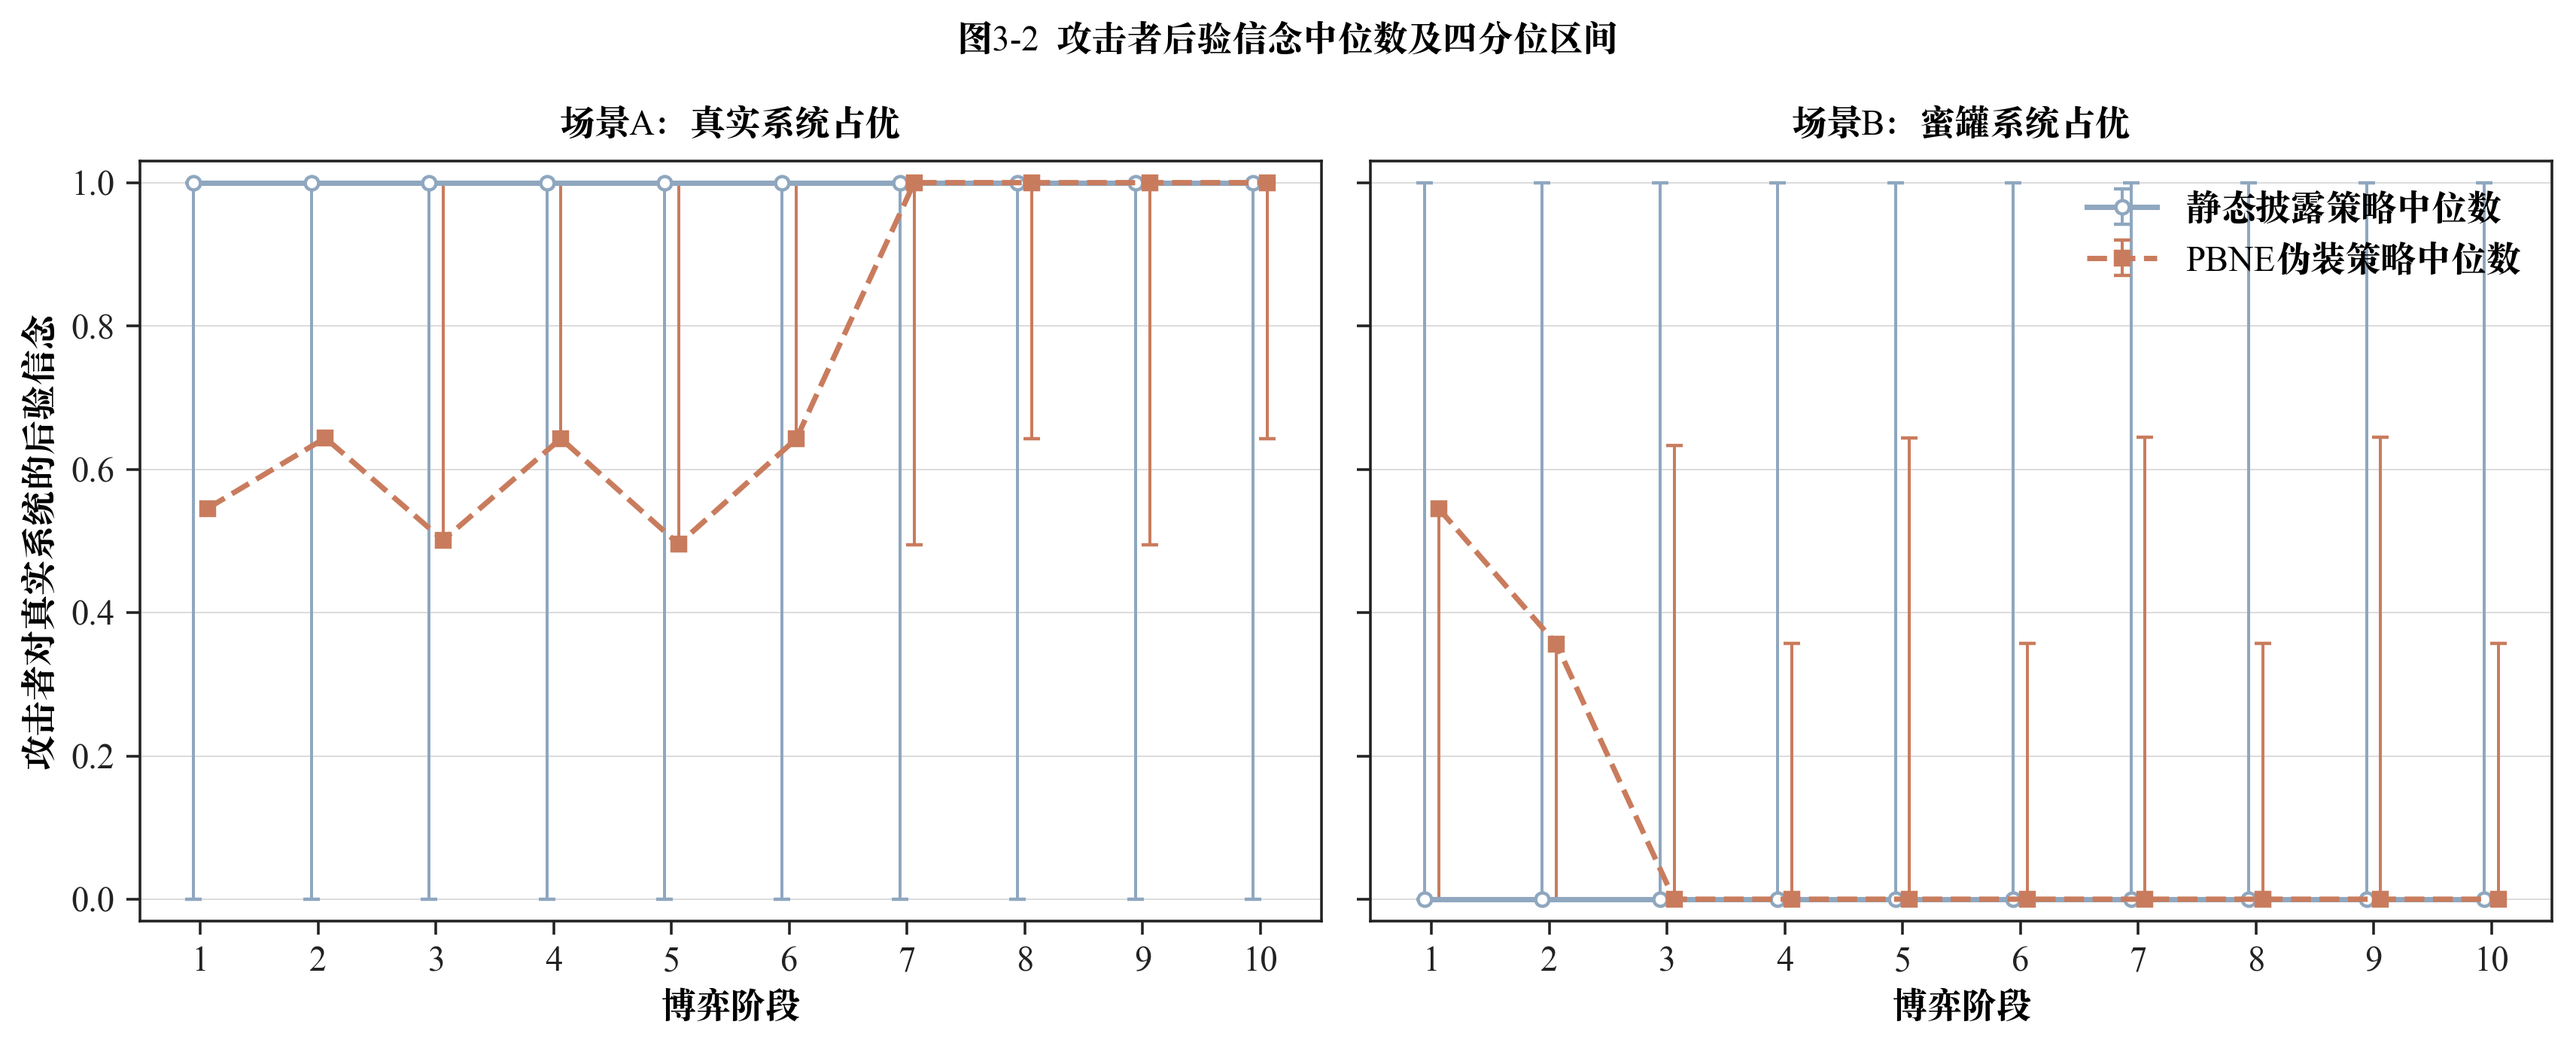
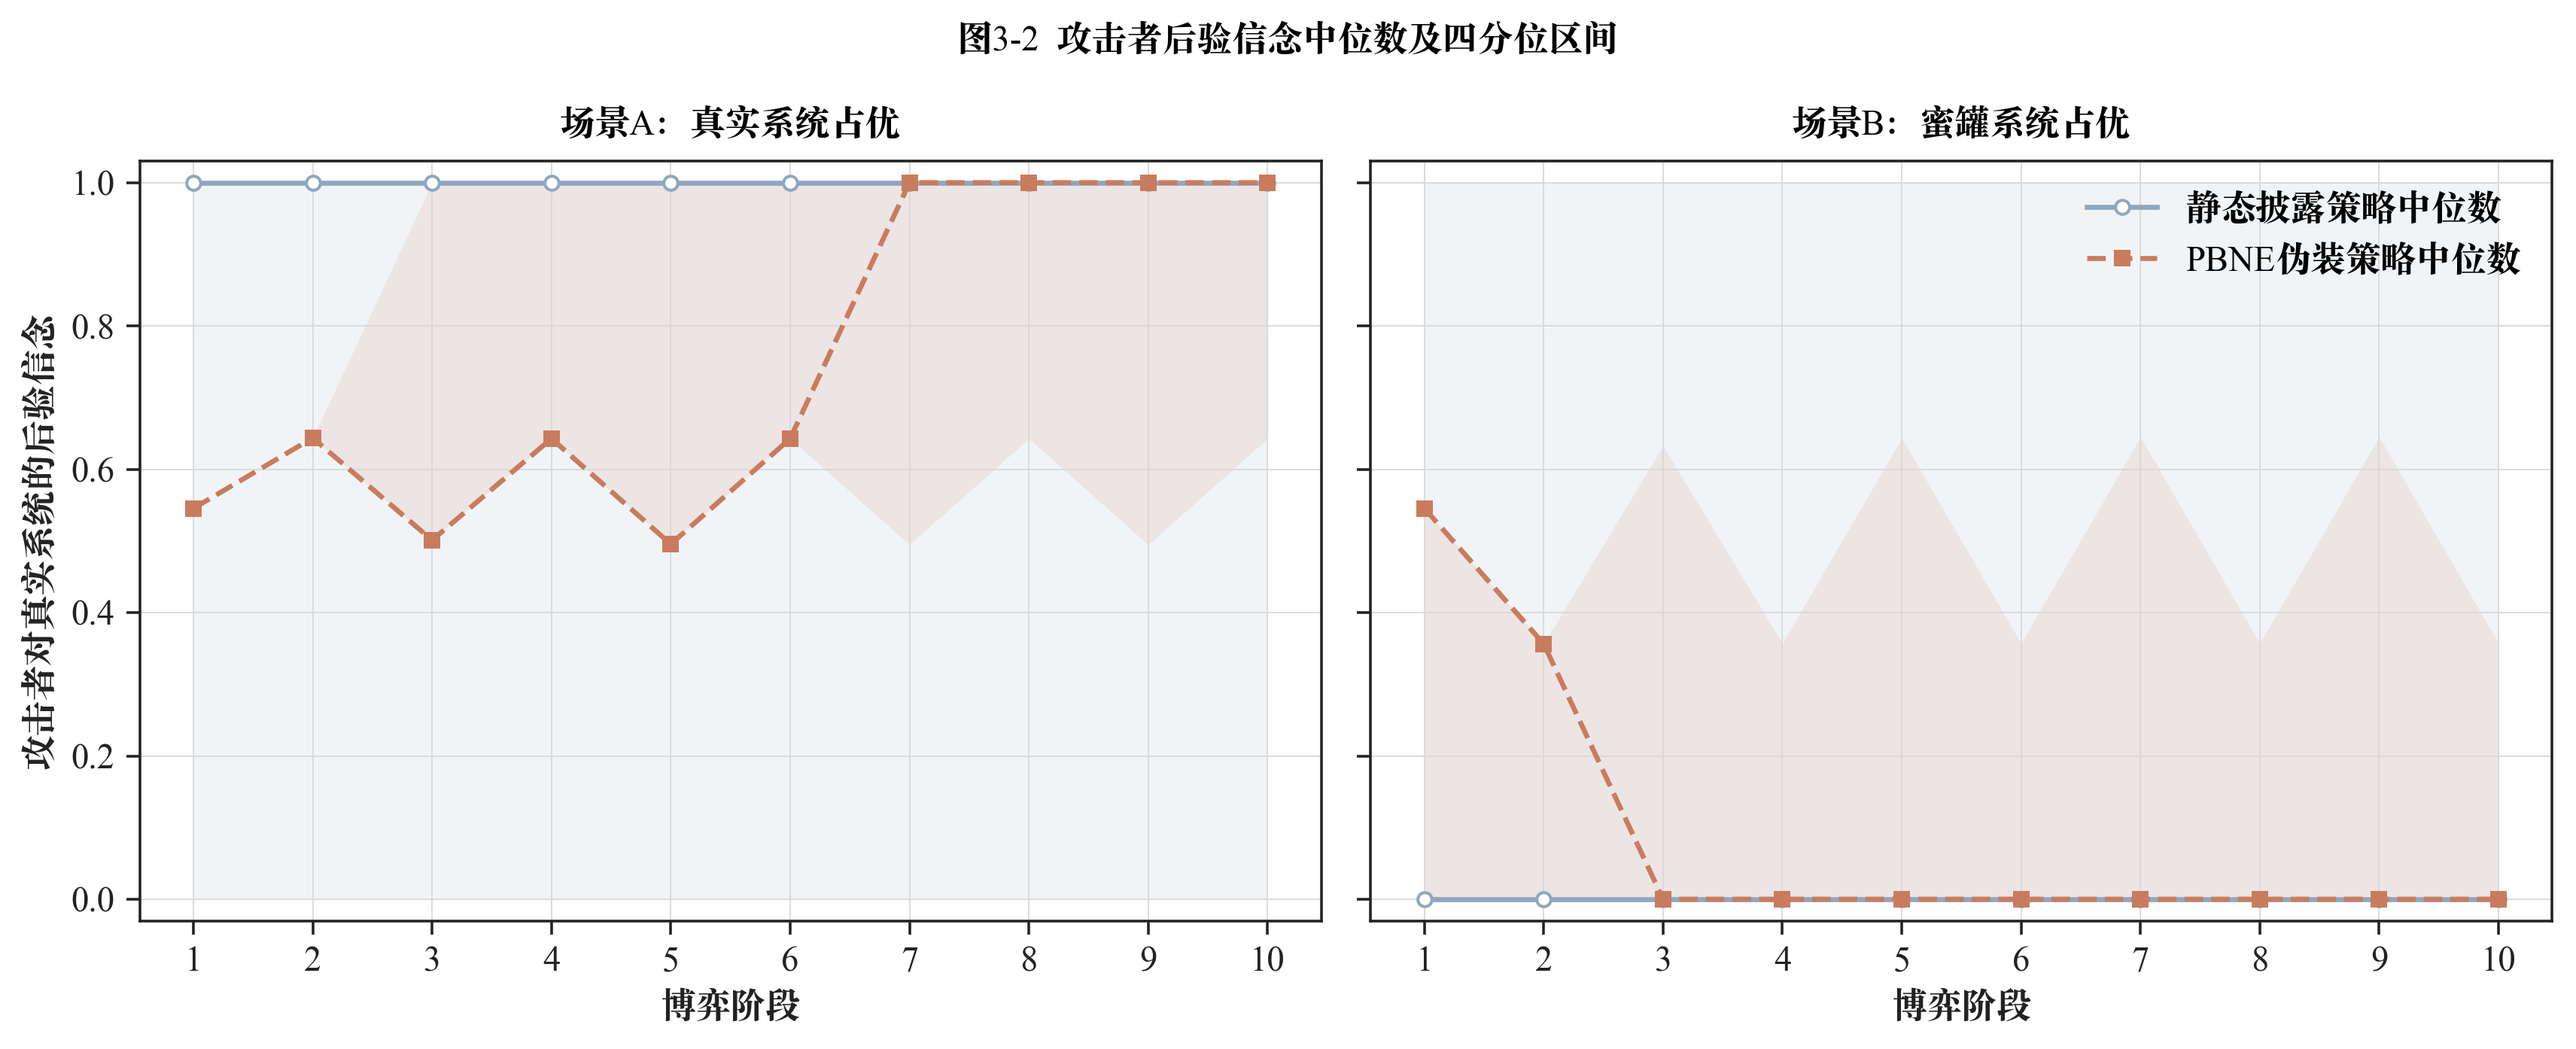
Refine theory figure style for chapter 3 experiments

diff --git a/sg_deception_simulation/plot_results.py b/sg_deception_simulation/plot_results.py
@@ -24,6 +24,8 @@ COLOR_PBNE = "#C97C5D"
 COLOR_PBNE_ALT = "#6E9F6D"
 COLOR_GRID = "#D8D8D8"
 COLOR_TEXT = "#222222"
+
+
 def configure_matplotlib() -> None:
     global FONT_CN, FONT_EN
     available = {font.name for font in font_manager.fontManager.ttflist}
@@ -46,6 +48,12 @@ def configure_matplotlib() -> None:
     matplotlib.rcParams["axes.facecolor"] = "white"
     matplotlib.rcParams["figure.facecolor"] = "white"
     matplotlib.rcParams["savefig.facecolor"] = "white"
+    matplotlib.rcParams["axes.titleweight"] = "regular"
+    matplotlib.rcParams["axes.labelcolor"] = COLOR_TEXT
+    matplotlib.rcParams["xtick.color"] = COLOR_TEXT
+    matplotlib.rcParams["ytick.color"] = COLOR_TEXT
+    matplotlib.rcParams["lines.markersize"] = 4
+    matplotlib.rcParams["lines.linewidth"] = 1.4
 
 
 def apply_academic_axes_style(ax, x_font=None, y_font=None) -> None:
@@ -73,6 +81,38 @@ def save_figure(filename: str) -> None:
     plt.close()
 
 
+def plot_academic_line(
+    ax,
+    x,
+    y,
+    *,
+    color: str,
+    label: str,
+    marker: str,
+    linestyle: str = "-",
+    hollow: bool = False,
+):
+    return ax.plot(
+        x,
+        y,
+        color=color,
+        label=label,
+        linestyle=linestyle,
+        marker=marker,
+        markersize=4.2,
+        markerfacecolor="white" if hollow else color,
+        markeredgecolor=color,
+        markeredgewidth=0.9,
+        linewidth=1.5,
+    )[0]
+
+
+def empirical_cdf(values: list[float]) -> tuple[np.ndarray, np.ndarray]:
+    sample = np.sort(np.asarray(values, dtype=float))
+    y = np.arange(1, sample.size + 1, dtype=float) / sample.size
+    return sample, y
+
+
 def plot_scenario_utility(feasible: dict) -> None:
     scenario_labels = ["场景A\n真实系统占优", "场景B\n蜜罐系统占优"]
     baseline_values = [
@@ -85,44 +125,48 @@ def plot_scenario_utility(feasible: dict) -> None:
     ]
 
     x = np.arange(len(scenario_labels))
-    width = 0.32
-
     plt.figure(figsize=(7.2, 4.6))
     ax = plt.gca()
     ax.grid(axis="y")
-    bars1 = plt.bar(
-        x - width / 2,
+    line1 = plot_academic_line(
+        ax,
+        x,
         baseline_values,
-        width=width,
-        color="white",
-        edgecolor=COLOR_BASELINE,
-        hatch="//",
-        linewidth=0.9,
+        color=COLOR_BASELINE,
         label="静态披露策略",
+        marker="o",
+        hollow=True,
     )
-    bars2 = plt.bar(
-        x + width / 2,
+    line2 = plot_academic_line(
+        ax,
+        x,
         pbne_values,
-        width=width,
-        color="#F3DDD4",
-        edgecolor=COLOR_PBNE,
-        hatch="\\\\",
-        linewidth=0.9,
+        color=COLOR_PBNE,
         label="适用PBNE伪装策略",
+        marker="s",
+        linestyle="--",
     )
 
-    for bars in (bars1, bars2):
-        for bar in bars:
-            y = bar.get_height()
-            plt.text(
-                bar.get_x() + bar.get_width() / 2,
-                y + 0.06,
-                f"{y:.2f}",
-                ha="center",
-                va="bottom",
-                fontproperties=FONT_EN,
-                fontsize=10.5,
-            )
+    for xpos, y in zip(x, baseline_values):
+        plt.text(
+            xpos,
+            y + 0.08,
+            f"{y:.2f}",
+            ha="center",
+            va="bottom",
+            fontproperties=FONT_EN,
+            fontsize=10.0,
+        )
+    for xpos, y in zip(x, pbne_values):
+        plt.text(
+            xpos,
+            y - 0.18,
+            f"{y:.2f}",
+            ha="center",
+            va="top",
+            fontproperties=FONT_EN,
+            fontsize=10.0,
+        )
 
     plt.xticks(x, scenario_labels)
     for label in ax.get_xticklabels():
@@ -131,7 +175,7 @@ def plot_scenario_utility(feasible: dict) -> None:
     plt.ylabel("防御者期望效用", fontproperties=FONT_CN, fontsize=10.5)
     plt.xlabel("实验场景", fontproperties=FONT_CN, fontsize=10.5)
     plt.title("图3-1  不同场景下防御者期望效用对比", fontproperties=FONT_CN, fontsize=10.5, pad=10)
-    plt.legend(loc="upper right", prop=FONT_CN, fontsize=10.5)
+    plt.legend(handles=[line1, line2], loc="best", prop=FONT_CN, fontsize=10.0)
     apply_academic_axes_style(ax, x_font=FONT_CN, y_font=FONT_EN)
     save_figure("fig3_1_defender_utility_comparison.png")
 
@@ -170,38 +214,30 @@ def plot_belief_trajectories(feasible: dict) -> None:
         pbne_lower = np.array(pbne_q50) - np.array(pbne_q25)
         pbne_upper = np.array(pbne_q75) - np.array(pbne_q50)
 
-        ax.errorbar(
-            stages - 0.06,
+        ax.fill_between(stages, baseline_q25, baseline_q75, color=COLOR_BASELINE, alpha=0.12, linewidth=0)
+        ax.fill_between(stages, pbne_q25, pbne_q75, color=COLOR_PBNE, alpha=0.12, linewidth=0)
+        plot_academic_line(
+            ax,
+            stages,
             baseline_q50,
-            yerr=np.vstack([baseline_lower, baseline_upper]),
-            fmt="o-",
             color=COLOR_BASELINE,
-            markerfacecolor="white",
-            markeredgecolor=COLOR_BASELINE,
-            linewidth=1.6,
-            markersize=4.0,
-            elinewidth=0.9,
-            capsize=2.5,
             label="静态披露策略中位数",
+            marker="o",
+            hollow=True,
         )
-        ax.errorbar(
-            stages + 0.06,
+        plot_academic_line(
+            ax,
+            stages,
             pbne_q50,
-            yerr=np.vstack([pbne_lower, pbne_upper]),
-            fmt="s--",
             color=COLOR_PBNE,
-            markerfacecolor=COLOR_PBNE,
-            markeredgecolor=COLOR_PBNE,
-            linewidth=1.6,
-            markersize=4.0,
-            elinewidth=0.9,
-            capsize=2.5,
             label="PBNE伪装策略中位数",
+            marker="s",
+            linestyle="--",
         )
         ax.set_title(subtitle, fontproperties=FONT_CN, fontsize=10.5, pad=8)
         ax.set_xlabel("博弈阶段", fontproperties=FONT_CN, fontsize=10.5)
         ax.set_xticks(stages)
-        ax.grid(True, axis="y")
+        ax.grid(True, axis="both")
         apply_academic_axes_style(ax, x_font=FONT_EN, y_font=FONT_EN)
 
     axes[0].set_ylabel("攻击者对真实系统的后验信念", fontproperties=FONT_CN, fontsize=10.5)
@@ -217,45 +253,35 @@ def plot_final_belief_distribution(feasible: dict) -> None:
     fig, ax = plt.subplots(figsize=(7.2, 4.8))
     baseline = feasible["scenario_b_low_prior_theta1"]["results"]["truthful_baseline"]["final_beliefs"]
     pbne = feasible["scenario_b_low_prior_theta1"]["results"]["pbne_honeypot_camouflage"]["final_beliefs"]
+    baseline_x, baseline_y = empirical_cdf(baseline)
+    pbne_x, pbne_y = empirical_cdf(pbne)
 
-    box = ax.boxplot(
-        [baseline, pbne],
-        positions=[1, 2],
-        widths=0.5,
-        patch_artist=True,
-        showfliers=False,
-        medianprops={"color": COLOR_TEXT, "linewidth": 1.1},
-        whiskerprops={"color": COLOR_TEXT, "linewidth": 0.9},
-        capprops={"color": COLOR_TEXT, "linewidth": 0.9},
+    plot_academic_line(
+        ax,
+        baseline_x,
+        baseline_y,
+        color=COLOR_BASELINE,
+        label="静态披露策略",
+        marker="o",
+        hollow=True,
     )
-    for patch, color, face in zip(box["boxes"], [COLOR_BASELINE, COLOR_PBNE_ALT], ["#ECF2F9", "#E7F0E4"]):
-        patch.set_edgecolor(color)
-        patch.set_facecolor(face)
-        patch.set_linewidth(1.0)
+    plot_academic_line(
+        ax,
+        pbne_x,
+        pbne_y,
+        color=COLOR_PBNE_ALT,
+        label="PBNE-2",
+        marker="^",
+    )
 
-    rng = np.random.default_rng(20260319)
-    for xpos, values, color in [
-        (1, baseline, COLOR_BASELINE),
-        (2, pbne, COLOR_PBNE_ALT),
-    ]:
-        sample = np.array(values, dtype=float)
-        jitter = rng.uniform(-0.09, 0.09, size=sample.shape[0])
-        ax.scatter(
-            np.full(sample.shape[0], xpos) + jitter,
-            sample,
-            s=10,
-            alpha=0.18,
-            color=color,
-            edgecolors="none",
-        )
-
-    ax.set_xticks([1, 2], ["静态披露策略", "PBNE-2"])
-    plt.xlabel("策略类型", fontproperties=FONT_CN, fontsize=10.5)
-    plt.ylabel("终局时刻对真实系统的后验信念", fontproperties=FONT_CN, fontsize=10.5)
+    plt.xlabel("终局时刻对真实系统的后验信念", fontproperties=FONT_CN, fontsize=10.5)
+    plt.ylabel("经验累计分布", fontproperties=FONT_CN, fontsize=10.5)
     plt.title("图3-3  场景B下终局信念分布对比", fontproperties=FONT_CN, fontsize=10.5, pad=10)
+    ax.set_xlim(-0.03, 1.03)
     ax.set_ylim(-0.03, 1.03)
-    plt.grid(axis="y")
-    apply_academic_axes_style(ax, x_font=FONT_CN, y_font=FONT_EN)
+    ax.legend(loc="lower right", prop=FONT_CN, fontsize=10.0)
+    plt.grid(axis="both")
+    apply_academic_axes_style(ax, x_font=FONT_EN, y_font=FONT_EN)
     save_figure("fig3_3_final_belief_distribution.png")
 
 
@@ -279,34 +305,29 @@ def plot_sensitivity_curves(sensitivity: dict) -> None:
             y2 = [row["mixing_probability_mean"] for row in rows]
             secondary_label = "均衡概率"
 
-        ax.plot(
+        plot_academic_line(
+            ax,
             x,
             y1,
-            marker="o",
             color=COLOR_BASELINE,
-            linewidth=1.2,
-            markersize=4.5,
-            markerfacecolor="white",
-            markeredgecolor=COLOR_BASELINE,
             label="防御方期望效用",
+            marker="o",
+            hollow=True,
         )
         ax.set_xlabel(xlabel, fontproperties=FONT_CN, fontsize=10.5)
         ax.set_ylabel("防御者期望效用", fontproperties=FONT_CN, fontsize=10.5)
-        ax.grid(True, axis="y")
+        ax.grid(True, axis="both")
         apply_academic_axes_style(ax, x_font=FONT_EN, y_font=FONT_EN)
 
         ax2 = ax.twinx()
-        ax2.plot(
+        plot_academic_line(
+            ax2,
             x,
             y2,
-            marker="s",
             color=COLOR_PBNE,
-            linewidth=1.2,
-            linestyle="--",
-            markersize=4.5,
-            markerfacecolor=COLOR_PBNE,
-            markeredgecolor=COLOR_PBNE,
             label=secondary_label,
+            marker="s",
+            linestyle="--",
         )
         ax2.set_ylabel(secondary_label, fontproperties=FONT_CN, fontsize=10.5)
         for label in ax2.get_yticklabels():
@@ -350,7 +371,7 @@ def build_analysis_text(feasible: dict, sensitivity: dict) -> str:
         "",
         "## 3. 可直接写入论文的结论",
         "",
-        "实验结果表明，在与目标类型先验分布相匹配的适用场景中，基于 PBNE 的伪装策略均优于真实披露基线，能够通过影响攻击者的后验信念与攻击决策提升防御者的总体收益。此外，模型对先验概率和伪装成本较为敏感，这说明部署伪装防御策略时需要结合实际网络环境中的资产构成和欺骗开销进行参数配置。",
+        "实验结果表明，在与目标类型先验分布相匹配的适用场景中，基于 PBNE 的伪装策略均优于静态披露策略，能够通过影响攻击者的后验信念与攻击决策提升防御者的总体收益。此外，模型对先验概率和伪装成本较为敏感，这说明部署伪装防御策略时需要结合实际网络环境中的资产构成和欺骗开销进行参数配置。",
         "",
     ]
     return "\n".join(lines)

diff --git a/sg_deception_simulation/results/analysis_notes.md b/sg_deception_simulation/results/analysis_notes.md
@@ -20,4 +20,4 @@
 
 ## 3. 可直接写入论文的结论
 
-实验结果表明，在与目标类型先验分布相匹配的适用场景中，基于 PBNE 的伪装策略均优于真实披露基线，能够通过影响攻击者的后验信念与攻击决策提升防御者的总体收益。此外，模型对先验概率和伪装成本较为敏感，这说明部署伪装防御策略时需要结合实际网络环境中的资产构成和欺骗开销进行参数配置。
+实验结果表明，在与目标类型先验分布相匹配的适用场景中，基于 PBNE 的伪装策略均优于静态披露策略，能够通过影响攻击者的后验信念与攻击决策提升防御者的总体收益。此外，模型对先验概率和伪装成本较为敏感，这说明部署伪装防御策略时需要结合实际网络环境中的资产构成和欺骗开销进行参数配置。
